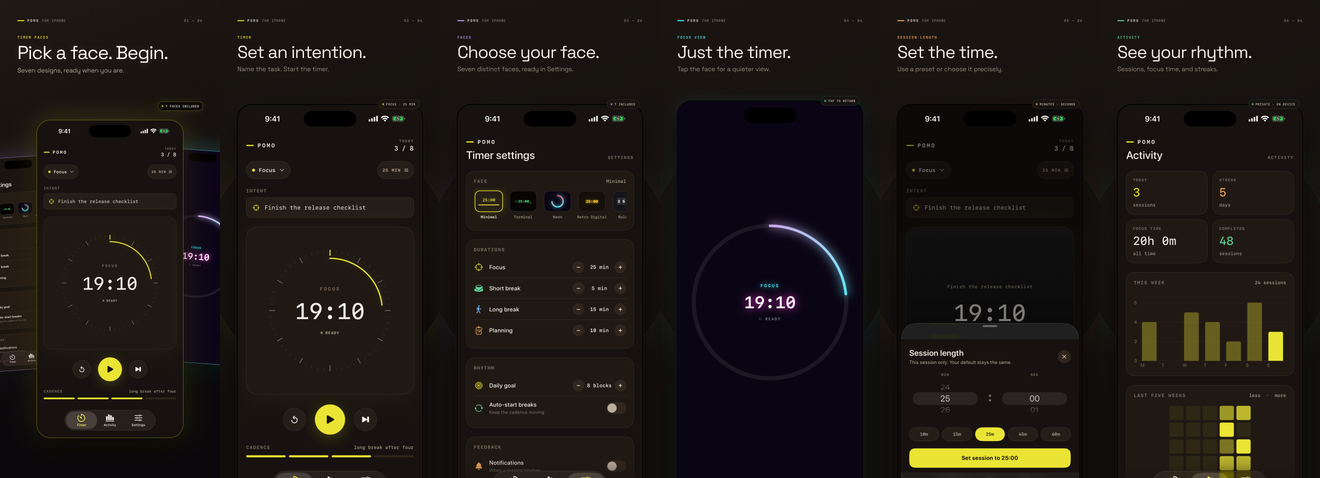
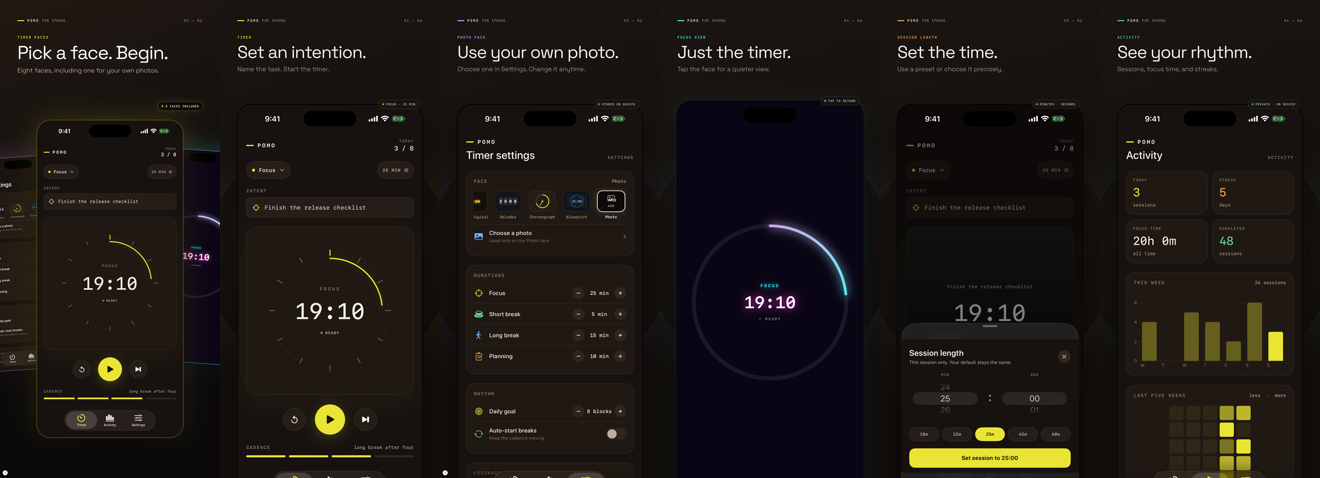
📣 Feature Photo face in App Store pitch

diff --git a/landing/components/app-store-promo.tsx b/landing/components/app-store-promo.tsx
@@ -5,8 +5,8 @@ export const appStorePromos = {
     order: "01",
     label: "Timer faces",
     title: "Pick a face. Begin.",
-    description: "Seven designs, ready when you are.",
-    detail: "7 faces included",
+    description: "Eight faces, including one for your own photos.",
+    detail: "8 faces included",
     src: "/marketing/iphone-timer-v2.png",
     accent: "#eae434",
   },
@@ -21,11 +21,11 @@ export const appStorePromos = {
   },
   faces: {
     order: "03",
-    label: "Faces",
-    title: "Choose your face.",
-    description: "Seven distinct faces, ready in Settings.",
-    detail: "7 included",
-    src: "/marketing/iphone-faces-v2.png",
+    label: "Photo face",
+    title: "Use your own photo.",
+    description: "Choose one in Settings. Change it anytime.",
+    detail: "Stored on device",
+    src: "/marketing/iphone-photo-v2.png",
     accent: "#c39aff",
   },
   immersive: {
@@ -80,16 +80,16 @@ export function AppStorePromo({ shot }: { shot: AppStorePromoKey }) {
       </header>
 
       {shot === "hero" ? (
-        <div className="app-store-hero-stage" aria-label="Three Pomo timer faces for iPhone">
+        <div className="app-store-hero-stage" aria-label="Three Pomo timer views for iPhone">
           <div className="app-store-orbit" aria-hidden="true" />
           <div className="app-store-detail" aria-hidden="true"><i />{promo.detail}</div>
           <div className="app-store-hero-device is-picker">
             <Image
-              src="/marketing/iphone-faces-v2.png"
+              src="/marketing/iphone-photo-v2.png"
               width={1320}
               height={2868}
               sizes="560px"
-              alt="Pomo timer face picker"
+              alt="Pomo Photo face settings"
               priority
             />
           </div>

diff --git a/landing/app/home-content.tsx b/landing/app/home-content.tsx
@@ -488,11 +488,11 @@ function Screenshots() {
       caption: "Add a note and start the timer.",
     },
     {
-      src: "/marketing/iphone-blueprint.png",
+      src: "/marketing/iphone-photo-v2.png",
       index: "02",
-      label: "Instrument",
-      title: "Choose a timer face.",
-      caption: "Dial, Terminal, and Blueprint are included.",
+      label: "Personal",
+      title: "Use your own photo.",
+      caption: "Choose it in Settings. Change it anytime.",
     },
     {
       src: "/marketing/iphone-activity.png",
@@ -555,7 +555,7 @@ function Screenshots() {
               <h2>Pomo for iPhone.</h2>
             </div>
             <p>
-              The iPhone app includes task notes, three timer faces, adjustable sessions, and activity history stored on the device.
+              The iPhone app includes task notes, eight timer faces—including one for your own photos—adjustable sessions, and activity history stored on the device.
             </p>
           </div>
 

diff --git a/apps/ios/AppStore/metadata.md b/apps/ios/AppStore/metadata.md
@@ -17,7 +17,7 @@
 
 ## Promotional text
 
-Pomo includes task notes, seven timer faces, a quiet full-screen focus mode, Live Activities, and private activity history stored on your iPhone.
+Pomo includes task notes, eight timer faces—including one for your own photos—a quiet full-screen focus mode, Live Activities, and private activity history.
 
 ## Description
 
@@ -29,7 +29,7 @@ ADD A TASK
 Write a short note before the timer starts. It stays visible during the session.
 
 CHOOSE A TIMER FACE
-Choose Minimal, Terminal, Neon, Retro Digital, Rolodex, Chronograph, or Blueprint in Settings. Long press the timer for a shortcut.
+Choose from seven designed faces, or use one of your own photos. Change it any time in Settings. Long press the timer for a shortcut.
 
 FOCUS ON THE TIMER
 Tap the timer face for a quiet full-screen view. Tap again when you want the controls back.
@@ -44,7 +44,7 @@ ADJUST THE TIMER
 Set focus, planning, and break defaults in Settings, or tap the session length beside the mode to choose an exact time for the current session. You can also set a daily goal and choose whether breaks start automatically.
 
 PRIVATE BY DEFAULT
-Pomo has no account and no advertising or analytics SDK. Your timer settings, session intentions, and activity history stay on your device.
+Pomo has no account and no advertising or analytics SDK. Your timer settings, session intentions, activity history, and selected Photo face image stay on your device.
 
 Pomo is an independent, open-source app for focused work.
 
@@ -65,9 +65,9 @@ Use 6.9-inch portrait screenshots at `1320 × 2868`.
 Upload the finished files in `PromotionalV2/`. The unframed simulator captures in
 `Screenshots/` are the source images used by the marketing renderer.
 
-1. **Pick a face. Begin.** — Seven timer designs, shown in the app.
+1. **Pick a face. Begin.** — Eight faces, including one for your own photos.
 2. **Set an intention.** — Name the task and start the timer.
-3. **Choose your face.** — Seven desktop-inspired faces are included.
+3. **Use your own photo.** — Choose or change it in Settings.
 4. **Just the timer.** — Tap the face for a quieter focus view.
 5. **Set the time.** — Use a preset or choose the session precisely.
 6. **See your rhythm.** — Review sessions, focus time, and streaks.
@@ -80,7 +80,7 @@ Pomo is a standalone focus timer. No account, sign-in, network connection, purch
 - Tap the session pill to choose Focus, Short Break, Long Break, or Planning.
 - Tap the session-length pill while stopped or paused to set the current session in minutes and seconds.
 - Tap a timer face for the face-only focus view; tap again to return.
-- Choose among seven faces in Settings, or long press the timer face for the visual picker.
+- Choose among eight faces in Settings, including a Photo face. Use “Choose a photo” to select an image with the system picker, or long press the timer face for the visual picker.
 - Starting a timer can show an optional Live Activity on the Lock Screen and Dynamic Island.
 - Notifications are optional and requested only when enabled in Settings.
 - All session data is stored locally in `UserDefaults`; the included privacy manifest declares reason `CA92.1`.
@@ -92,7 +92,7 @@ Pomo is a standalone focus timer. No account, sign-in, network connection, purch
 - **Data not linked to you:** No
 - **Data collected:** None
 
-The app stores settings, intentions, and session history locally and does not transmit them.
+The app stores settings, intentions, session history, and any image selected for the Photo face locally and does not transmit them.
 
 ## Age rating answers
 
@@ -116,7 +116,7 @@ expected global rating is **4+**.
 - [x] Create the App Store Connect record using the final legal developer name.
 - [ ] Confirm the support and privacy URLs are deployed and publicly reachable.
 - [x] Archive with the App Store distribution profile and upload build 1.
-- [ ] Archive and upload build 2 with the expanded faces, focus mode, and Live Activity.
+- [ ] Archive and upload build 2 with the expanded faces, personal Photo face, focus mode, and Live Activity.
 - [x] Upload the six current 6.9-inch iPhone screenshots from `PromotionalV2/`.
 - [x] Complete age rating (4+).
 - [ ] Complete App Privacy as “Data Not Collected.”

diff --git a/landing/MARKETING.md b/landing/MARKETING.md
@@ -8,7 +8,7 @@ generic device renders and no generated product UI.
 | Asset | Message | Source |
 | --- | --- | --- |
 | 01 · Timer | Set an intention. | `public/marketing/iphone-timer-v2.png` |
-| 02 · Faces | Choose your face. | `public/marketing/iphone-faces-v2.png` |
+| 02 · Photo face | Use your own photo. | `public/marketing/iphone-photo-v2.png` |
 | 03 · Focus view | Just the timer. | `public/marketing/iphone-immersive-v2.png` |
 | 04 · Session length | Set the time. | `public/marketing/iphone-duration-v2.png` |
 | 05 · Activity | See your rhythm. | `public/marketing/iphone-activity-v2.png` |
@@ -22,9 +22,9 @@ The upload-ready 6.9-inch product-page images live in
 
 | File | Copy |
 | --- | --- |
-| `01-hero.png` | Pick a face. Begin. |
+| `01-hero.png` | Pick a face. Begin. — eight faces, including your photos. |
 | `02-timer.png` | Set an intention. |
-| `03-faces.png` | Choose your face. |
+| `03-faces.png` | Use your own photo. |
 | `04-immersive.png` | Just the timer. |
 | `05-duration.png` | Set the time. |
 | `06-activity.png` | See your rhythm. |

diff --git a/apps/ios/README.md b/apps/ios/README.md
@@ -1,7 +1,7 @@
 # Pomo — iPhone
 
 A native SwiftUI focus timer that brings Pomo’s desktop faces to iPhone:
-intention-led sessions, seven timer faces, a face-only focus mode, Live
+intention-led sessions, eight timer faces—including a personal Photo face—a face-only focus mode, Live
 Activities, drift-resistant timing, activity charts, and private on-device
 history. Mode defaults live in Settings, while each individual session can be
 set precisely in minutes and seconds from the timer screen.